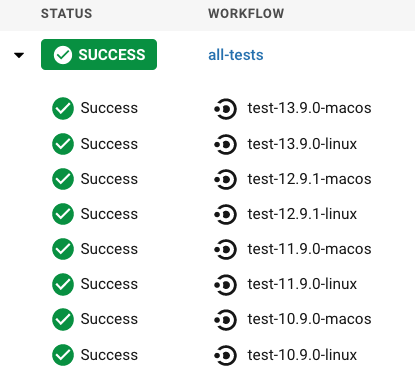
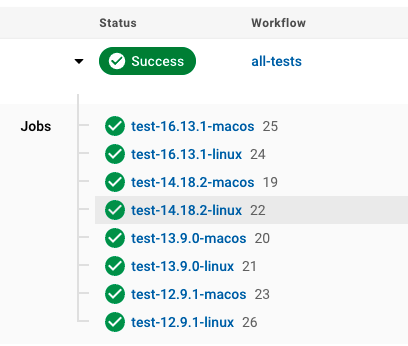
Updated Koan 8 & Added Koan 18 (runners) (#28)
* updated node versions and green build image to reflect

* Added new runner Koan

* Update README.md

corrected typo

* add job name to config

diff --git a/18 Runners/README.md b/18 Runners/README.md
@@ -1,0 +1,27 @@
+# Runners
+
+**Description:**
+
+This Koan makes use of Runners, which enables you to use your own infrastructure for running jobs. This means you will be able to build and test on a wider variety of architectures, as well as have additional control over the environment.
+
+What key aspects are important to note?
+
+**Goals:**
+
+- Carry out all pre-requisites to running tasks on a runner (authentication etc)
+- Create your runner using the Docker method.
+- Edit the config to enable the job to run on your runner.
+- Share Link to green job & image of agent running the job.
+
+![runner](/18%20Runners/src/runner.png)
+
+**Help:**
+
+<details>
+  <summary>Spoiler warning</summary>
+
+https://circleci.com/docs/2.0/runner-overview/
+https://circleci.com/docs/2.0/runner-installation/ => note the authentication section
+https://circleci.com/docs/2.0/runner-installation-docker/
+
+</details>

diff --git a/12 Matrix Builds/README.md b/12 Matrix Builds/README.md
@@ -7,7 +7,7 @@ We want to run our job across multiple versions of Node and on both Mac and Linu
 **Goals:**
 
 - Add a matrix condition to run the jobs for both `linux` and `macos`
-- Add a matrix condition to run the jobs for the following node versions: `10.9.0`,`11.9.0`,`12.9.1`,`13.9.0`
+- Add a matrix condition to run the jobs for the following node versions: `12.9.1`,`13.9.0`,`14.18.2`,`16.13.1`
 - Share link to green build that executed all 8 jobs, should look like this:
 
 ![matrix](/12%20Matrix%20Builds/src/matrix.png)

diff --git a/18 Runners/src/README.md b/18 Runners/src/README.md
@@ -1,0 +1,3 @@
+# SRC
+
+Include any required files for the challenge here. The testee should be able to clone this repo and run this challenge as a standalone project.
